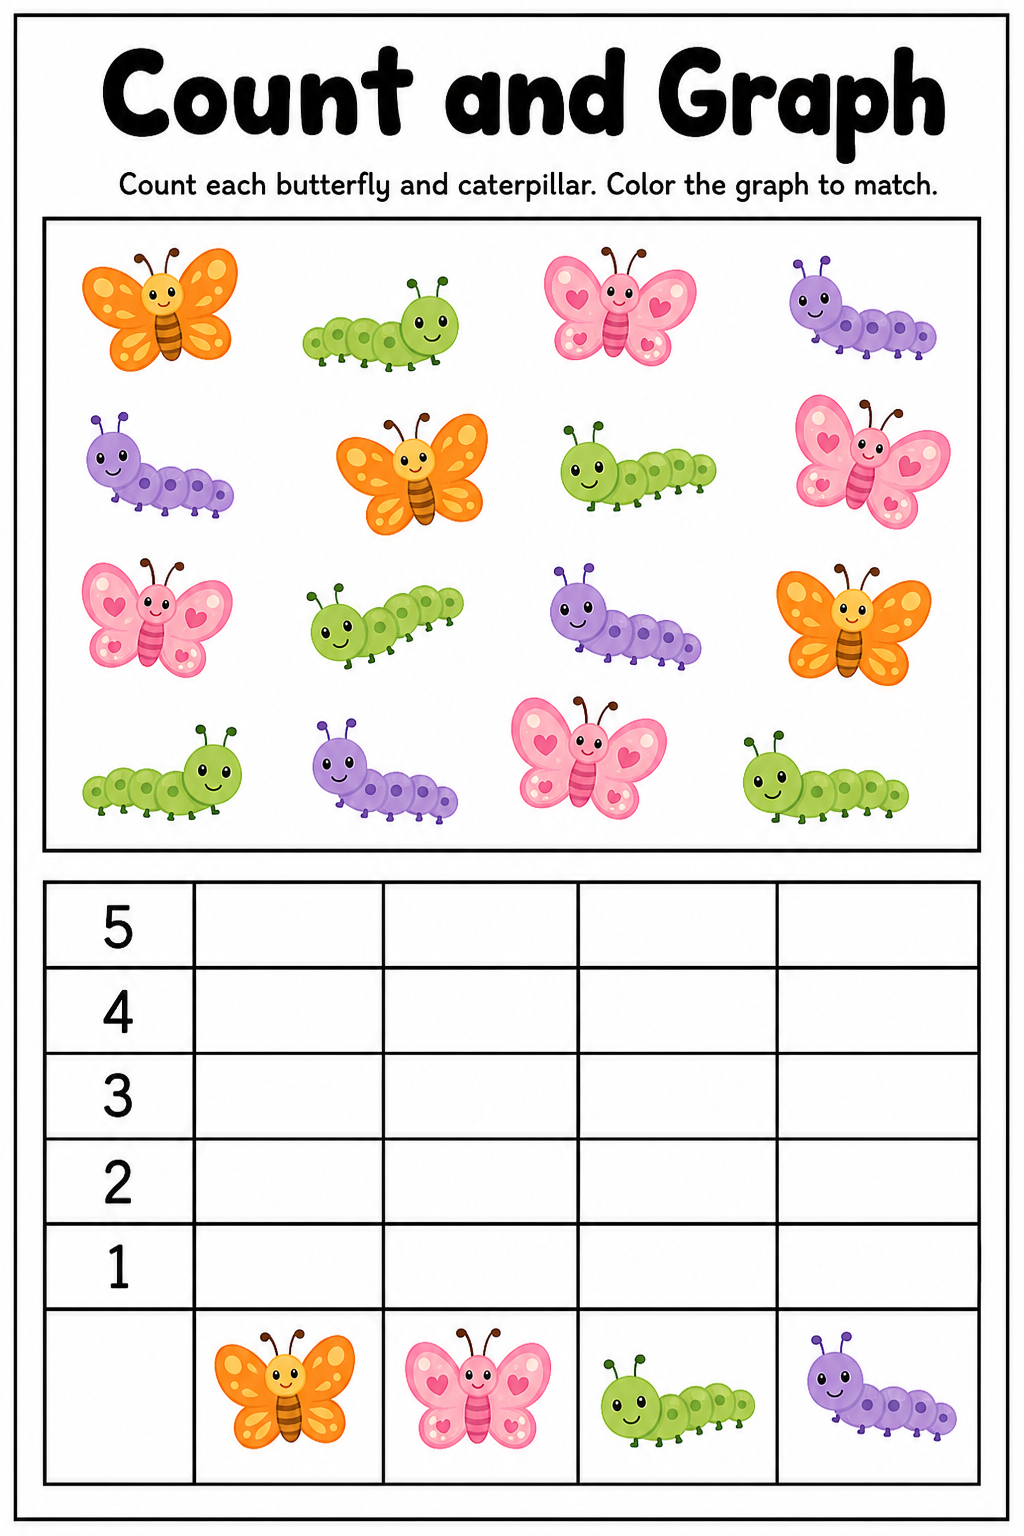
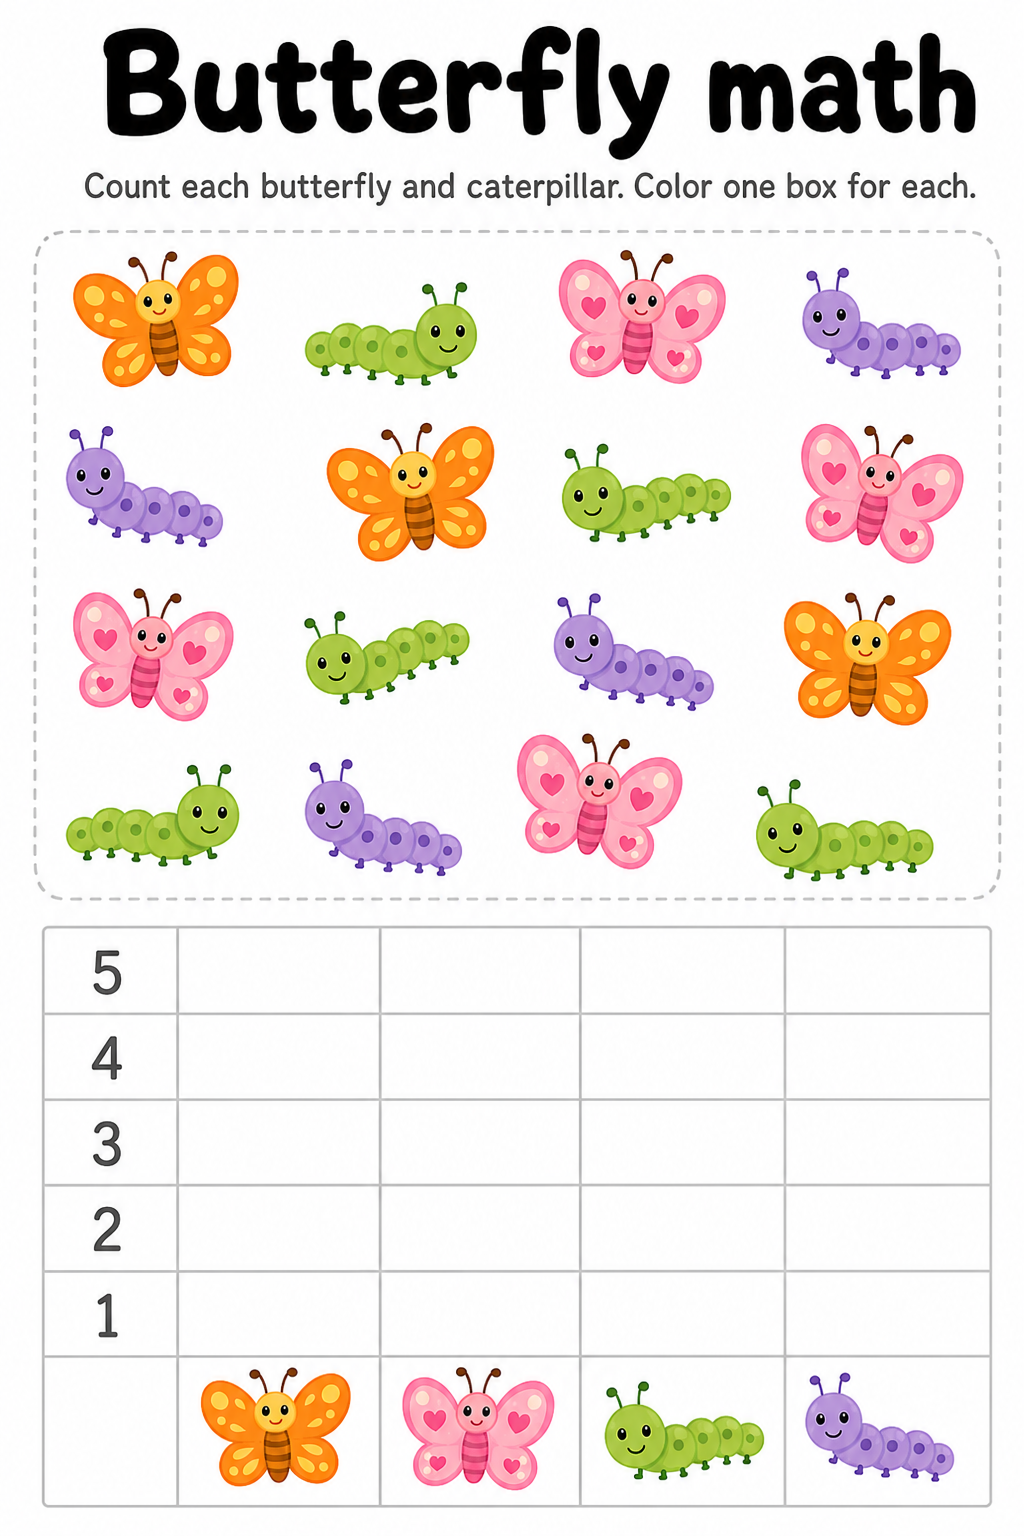
Regenerate the hero worksheet with an original title and no page border.
The page now reads Butterfly math, matching the attachment label, and the harsh black outline gives way to a soft dashed counting box so the MMS card sits cleanly in the thread.

Changed region(s): [[0.0, 0.0, 1.0, 1.0]]

diff --git a/apps/web/components/marketing/HeroProductDemo.tsx b/apps/web/components/marketing/HeroProductDemo.tsx
@@ -82,7 +82,7 @@ export function HeroProductDemo() {
       <div
         className="lp-product-demo-phone"
         role="img"
-        aria-label="Text thread: a parent says Maya likes butterflies, and Homa replies with a butterfly-themed count-and-graph worksheet saved to the binder"
+        aria-label="Text thread: a parent says Maya likes butterflies, and Homa replies with a butterfly math worksheet saved to the binder"
         style={{
           position: "relative",
           width: "100%",
@@ -340,8 +340,8 @@ export function HeroProductDemo() {
               <img
                 src="/images/hero-butterfly-math.png"
                 alt=""
-                width={640}
-                height={853}
+                width={1024}
+                height={1536}
                 style={{
                   display: "block",
                   width: "100%",
